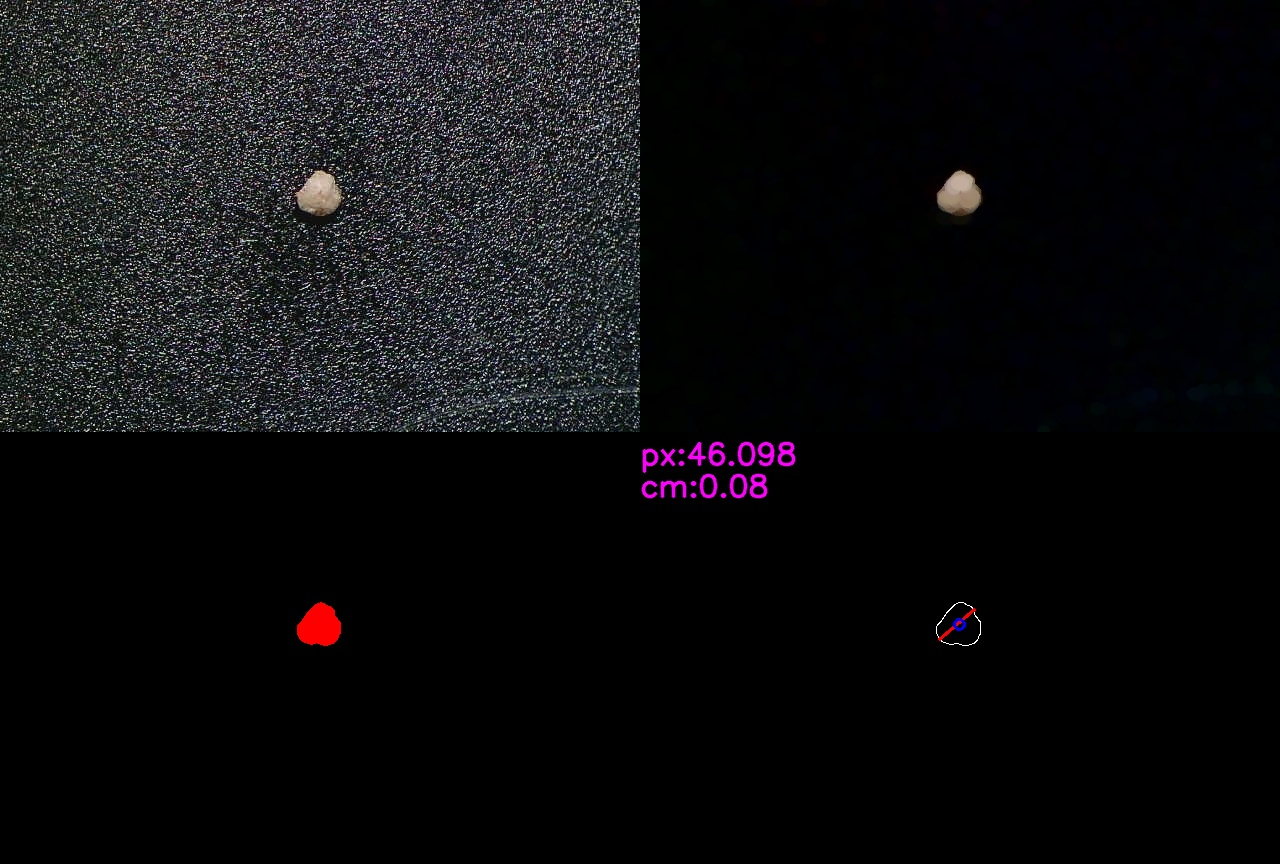
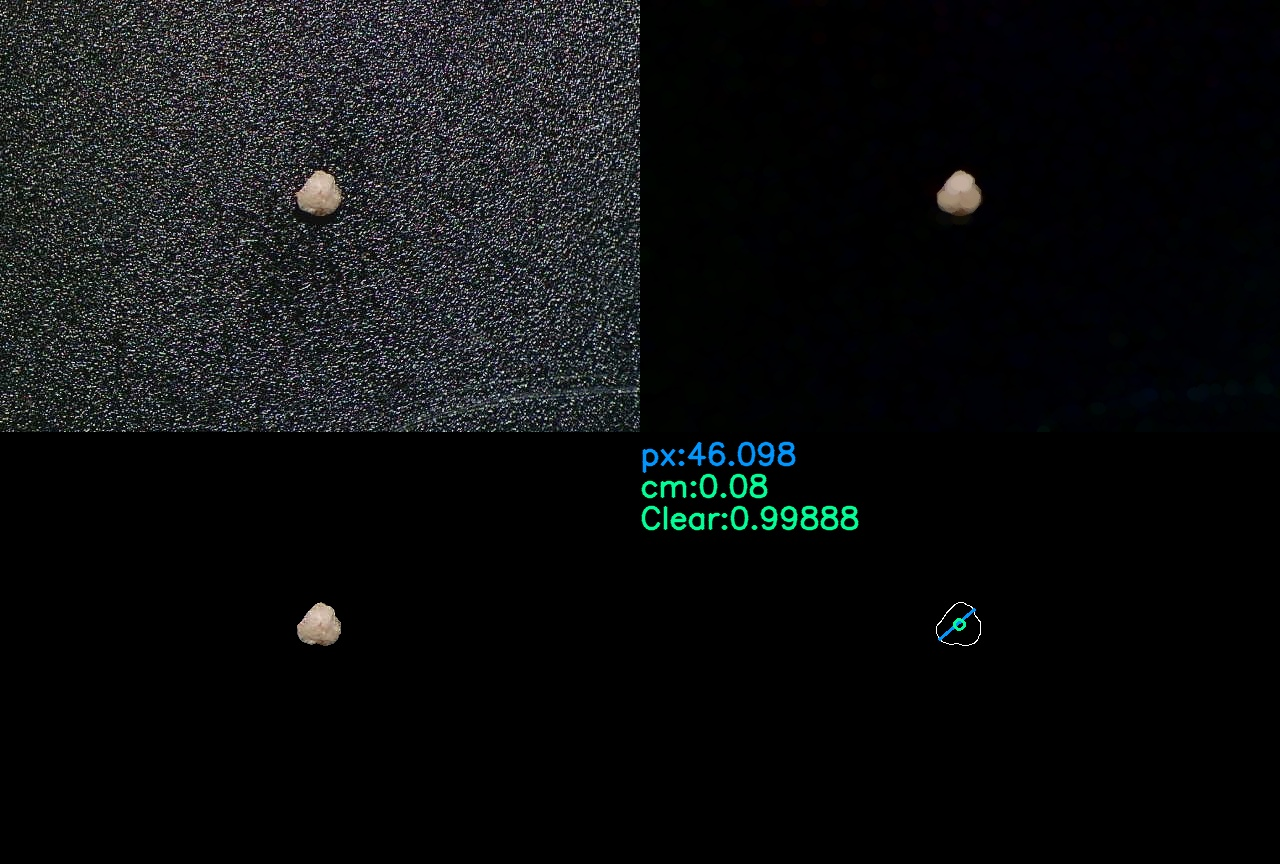
Cleaned up and commented

Changed region(s): [[0.5, 0.5, 0.6875, 0.625], [0.2188, 0.6875, 0.2812, 0.75], [0.7188, 0.7188, 0.75, 0.75]]

diff --git a/processImages.py b/processImages.py
@@ -180,36 +180,9 @@ if __name__=="__main__":
 
     # Get set of image file names     
     # dataSet = getFileSet('TestData', tag='.jpg')
-    dataSet = getFileSet("DataIn", tag='.jpg')
-
-    # Get labeled data and only pull pics of it
-    labelData = pandas.read_csv('BigData/MISPFeb_labeled.csv')
-    
-    print('Starting loop')
-
-    ii = 0 # Start at first file    
-    while True:
-
-        if ii >= len(dataSet): break # end if at end of file list
-
-        # Remove if not in labeled data
-        isIncluded = False
-        for fooID in labelData['ID']:
-            if dataSet[ii].find(fooID) > 0:
-                isIncluded = True
-                break
-
-        if isIncluded:
-            ii += 1
-        else:   # if tag not in name, remove
-            dataSet.pop(ii)
-
-    print(dataSet)
-
-
+    dataSet = getFileSet("DataIn", tag='.jpg')[45:]
 
     # Add neural net, burn after testing
-
     # load json and create model
     import tensorflow as tf
     from keras.models import Sequential
@@ -230,7 +203,7 @@ if __name__=="__main__":
         blue = [foo[0] for foo in pixImg[0]]
         green = [foo[1] for foo in pixImg[0]]
         red = [foo[2] for foo in pixImg[0]]
-        print(pixImg)
+        
         pixHsvImg = cv2.cvtColor(pixImg, cv2.COLOR_BGR2HSV)
 
         hue = [foo[0] for foo in pixHsvImg[0]]
@@ -298,9 +271,9 @@ if __name__=="__main__":
         bestColorGuess = max(colorGuessSet)
         bestColorName = TF_colorSet[np.where(colorGuessSet == bestColorGuess)[0][0]]
         
+        print(name, end=' : ')
+        print(bestColorName, end=' ')
         print(colorGuessSet)
-        print(bestColorName)
-        print('\n\n\n')
 
         imOut = cv2.putText(imOut, 
             str(bestColorName + ':' + str(round(bestColorGuess, 5))),
@@ -317,7 +290,6 @@ if __name__=="__main__":
         
         cv2.imwrite('OutputPictures/filt_' + str(name), imOut) # Save process image
 
-        print(str(name) + ' : ' + str(particleSize))
         
         # Save data to output csv
         fileOut = open('outData.csv', 'a')

diff --git a/labeledData.py b/labeledData.py
@@ -21,7 +21,8 @@ if __name__=="__main__":
     # dataSet = getFileSet('TestData', tag='.jpg')
     dataSet = pi.getFileSet("DataIn", tag='.jpg')
 
-    # Get labeled data and only pull pics of it
+    # Get labeled data and only pull pics out of this ID set
+    # Must have collumns labeled 'ID' and 'Color'
     labelData = pandas.read_csv('BigData/MISPFeb_labeled.csv')
     
     print('Starting loop')

diff --git a/TensorFlow_Train.py b/TensorFlow_Train.py
@@ -1,5 +1,7 @@
-import tensorflow as tf
+# Load labeled data and train simple neural net to identify colors
+# Data must be in /TensorFlow folder as single row images labeled (Color)_(Index)_pix.jpg, generated using labeled Data.py
 
+import tensorflow as tf
 from numpy import empty
 from scipy import rand
 import processImages as pi
